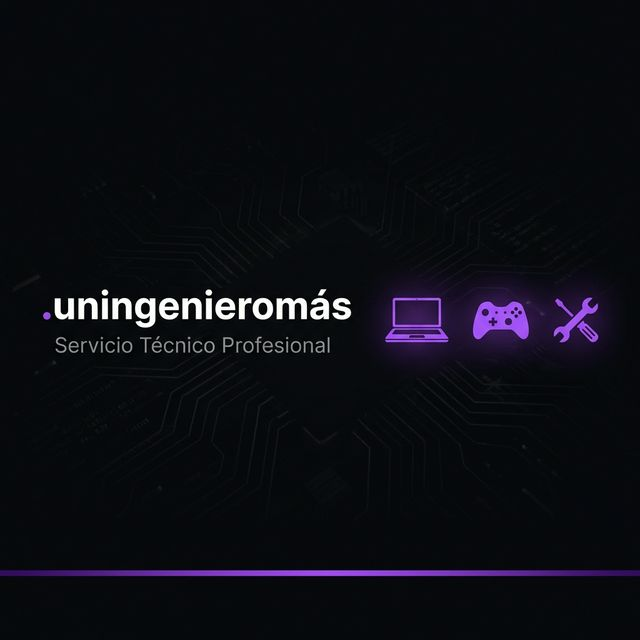
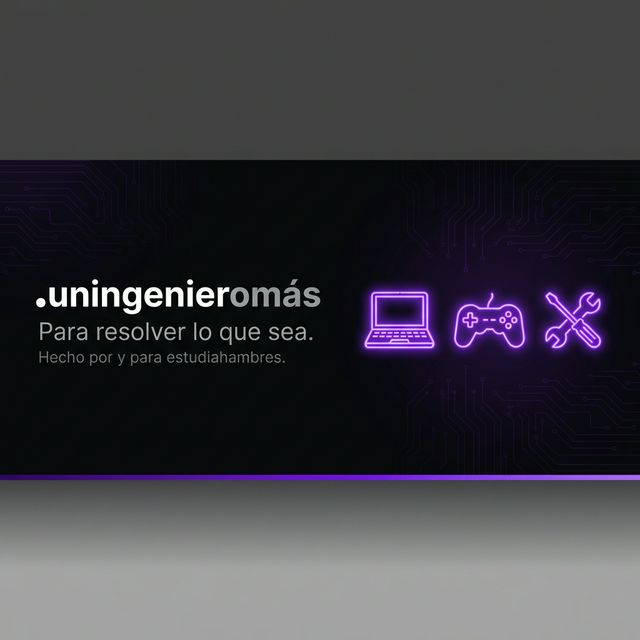
feat: Establish initial homepage with hero, service catalog, and contact form, and set up global layout with SEO.

diff --git a/src/app/layout.tsx b/src/app/layout.tsx
@@ -58,7 +58,7 @@ export const metadata: Metadata = {
     siteName: "Un Ingeniero Más",
     title: "Un Ingeniero Más — Servicio Técnico Profesional",
     description:
-      "Reparación de laptops, consolas, celulares e instalación de software. Diagnóstico rápido y soluciones reales.",
+      "Diagnóstico rápido, precios justos y soluciones reales. Hecho por y para estudiahambres: Laptops, consolas e instalaciones. Sin excusas, sin letra pequeña y sin dejarte sin comer.",
     images: [
       {
         url: "/og-image.png",
@@ -72,7 +72,7 @@ export const metadata: Metadata = {
     card: "summary_large_image",
     title: "Un Ingeniero Más — Servicio Técnico Profesional",
     description:
-      "Reparación de laptops, consolas, celulares e instalación de software. Diagnóstico rápido.",
+      "Diagnóstico rápido, precios justos y soluciones reales. Hecho por y para estudiahambres: Laptops, consolas e instalaciones. Sin excusas, sin letra pequeña y sin dejarte sin comer.",
     images: ["/og-image.png"],
   },
   alternates: {

diff --git a/src/app/page.tsx b/src/app/page.tsx
@@ -91,12 +91,13 @@ export default function Home() {
               </span>
             </h1>
             <p className="text-xl sm:text-2xl lg:text-3xl text-zinc-400 font-light mb-6">
-              para resolver lo que sea.
+              Para resolver lo que sea.
             </p>
 
             <p className="text-zinc-400 text-base sm:text-lg leading-relaxed mb-8 max-w-xl">
-              Diagnóstico rápido, precios justos y soluciones reales. Laptops,
-              consolas e instalaciones — sin excusas, sin letra pequeña.
+              Diagnóstico rápido, precios justos y soluciones reales. Hecho por
+              y para estudiahambres: Laptops, consolas e instalaciones. Sin
+              excusas, sin letra pequeña y sin dejarte sin comer.
             </p>
 
             <div className="flex flex-col sm:flex-row gap-3">
